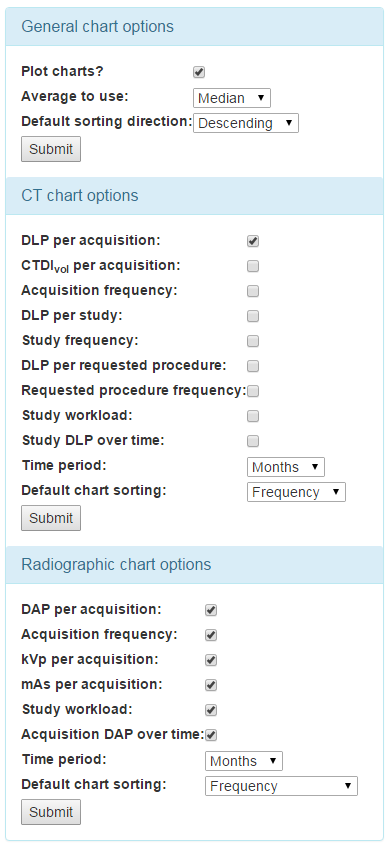
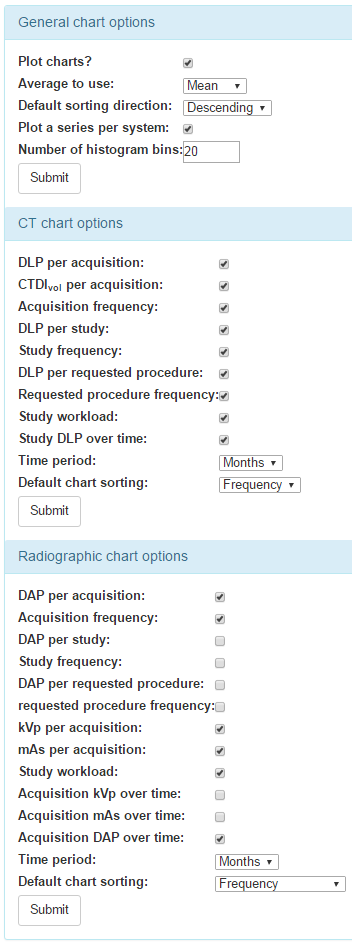
Further updating of chart documentation for 0.7.0. References issue #211

Changed region(s): [[0.0, 0.0, 1.0, 1.0]]

diff --git a/docs/charts.rst b/docs/charts.rst
@@ -83,29 +83,59 @@ Chart types
 
 The available charts for CT data are as follows:
 
-    * Bar chart of mean DLP and CTDI\ :sub:`vol` for each acquisition protocol:
+    * Bar chart of mean DLP for each acquisition protocol (all systems combined):
 
-      .. image:: img/ChartCTMeanDLPandCTDI.png
-         :width: 831px
+      .. image:: img/ChartCTMeanDLP.png
+         :width: 925px
          :align: center
-         :height: 765px
-         :alt: OpenREM chart of mean DLP and CTDI\ :sub:`vol` screenshot
+         :height: 587px
+         :alt: OpenREM chart of mean DLP screenshot
 
       The tooltip of each bar shows the user the name of the protocol, the
       number of acquisitions of that type and also the mean DLP and/or
       CTDI\ :sub:`vol` value.
 
-      Clicking on an individual bar takes the user to a histogram of DLP or
-      CTDI\ :sub:`vol` for that protocol. The tooltip for each histogram bar shows the
-      number of acquisitions. The DLP histogram tooltip also includes a link
+      Clicking on an individual bar takes the user to a histogram of DLP
+      for that protocol. The tooltip for each histogram bar shows the
+      number of acquisitions. The histogram tooltip also includes a link
       that will take the user to the list of studies that contain the
       acquisitions represented by that histogram bar:
 
-      .. image:: img/ChartCTHistogramDLP.png
-         :width: 833px
+      .. image:: img/ChartCTMeanDLPhistogram.png
+         :width: 930px
          :align: center
-         :height: 768px
+         :height: 511px
          :alt: OpenREM histogram of acquisition DLP screenshot
+
+    * Bar chart of mean DLP for each acquisition protocol (one series per system):
+
+      .. image:: img/ChartCTMeanDLPperSystem.png
+         :width: 930px
+         :align: center
+         :height: 592px
+         :alt: OpenREM chart of mean DLP (one system per series) screenshot
+
+      Ticking the `Plot a series per system` box in the ``Chart options`` will
+	  result in plots with one series per x-ray system for some charts.
+
+      Clicking on an x-axis label will take you to a plot with a histogram per
+	  x-ray system:
+
+      .. image:: img/ChartCTMeanDLPhistogramPerSystem.png
+         :width: 930px
+         :align: center
+         :height: 515px
+         :alt: OpenREM histogram of acquisition DLP (one series per system) screenshot
+
+      Clicking on the `Toggle normalisation` button when viewing a histogram will
+	  normalise all of the series. This can sometimes make it easier to compare one
+	  distribution with another:
+
+      .. image:: img/ChartCTMeanDLPhistogramPerSystemNorm.png
+         :width: 926px
+         :align: center
+         :height: 515px
+         :alt: OpenREM normalised histogram of acquisition DLP (one series per system) screenshot
 
     * Pie chart of the frequency of each acquisition protocol. Clicking on a
       segment of the pie chart takes the user to the list of studies that
